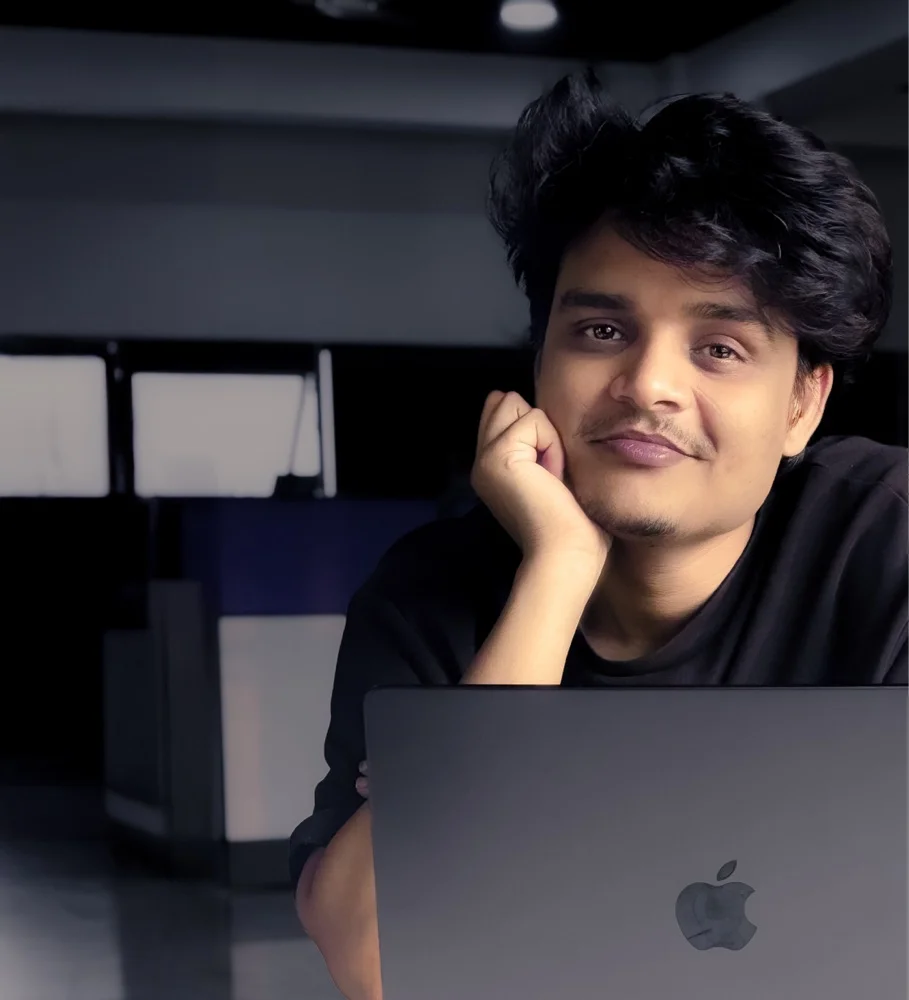
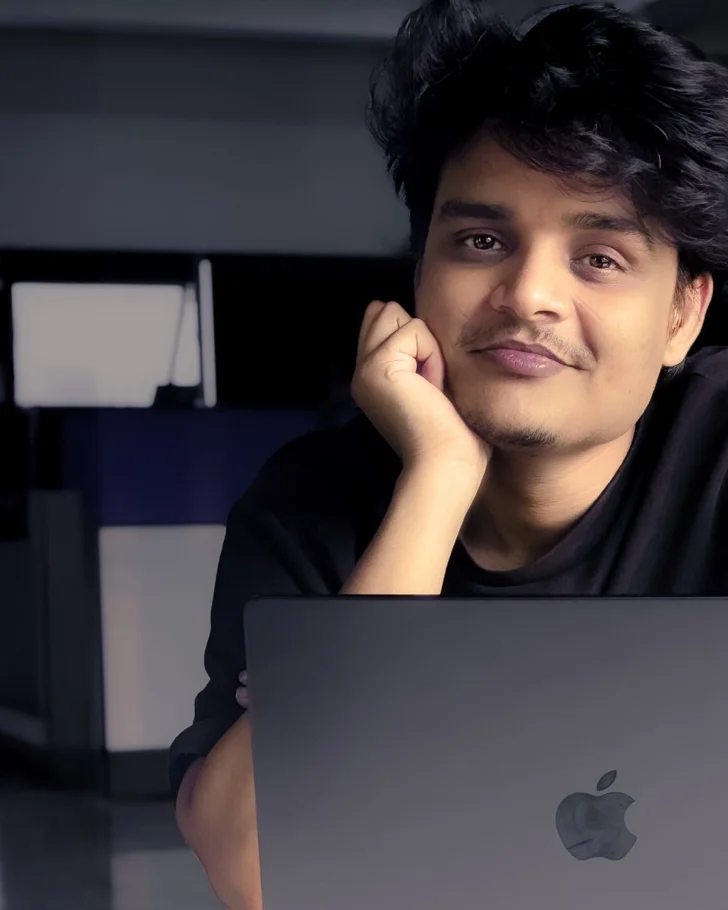
fix: hero headline collision + portrait crop
- hero-h1 line-height 1.06 -> 1.55 and re-tuned .rewrite offset/size so the
  handwritten 'system.' correction no longer overlaps the line above at
  wide viewports (verified via geometry at 375/1280/1920px); added a
  paper-colored halo behind it as a safety margin
- re-cropped rahim.webp: the original photo had significant dead ceiling
  space that CSS object-fit:cover couldn't remove (image was relatively
  wider than the 4:5 frame, so only side-cropping occurred); pre-cropped
  the source instead, and locked the portrait figure to aspect-ratio:4/5
  so it can no longer be stretched by the surrounding flex/grid

diff --git a/app/globals.css b/app/globals.css
@@ -99,15 +99,15 @@ button { font: inherit; cursor: pointer; }
 /* ============ hero ============ */
 .hero { min-height: 100svh; display: grid; grid-template-columns: minmax(0, 1.6fr) minmax(240px, 0.82fr); align-items: center; gap: clamp(28px, 5vw, 64px); position: relative; padding-top: 80px; }
 .hero-text { min-width: 0; }
-.hero-media { display: flex; justify-content: flex-end; }
-.hero-portrait { width: 100%; max-width: 340px; margin: 0; }
-.hero-portrait img { width: 100%; height: 100%; object-fit: cover; object-position: center 30%; display: block; }
+.hero-media { display: flex; justify-content: flex-end; align-items: center; align-self: center; }
+.hero-portrait { width: 100%; max-width: 340px; aspect-ratio: 4 / 5; margin: 0; flex: none; }
+.hero-portrait img { width: 100%; height: 100%; object-fit: cover; object-position: center center; display: block; }
 @media (max-width: 980px) {
   .hero { display: flex; flex-direction: column; justify-content: center; }
   .hero-media { display: none; }
 }
 .hero-eyebrow { display: flex; gap: 18px; color: var(--muted); margin-bottom: 28px; flex-wrap: wrap; }
-.hero-h1 { font-size: clamp(2.4rem, 6.4vw, 5.4rem); font-weight: 800; letter-spacing: -0.035em; line-height: 1.06; max-width: 16ch; }
+.hero-h1 { font-size: clamp(2.4rem, 6.4vw, 5.4rem); font-weight: 800; letter-spacing: -0.035em; line-height: 1.55; max-width: 16ch; }
 .hero-h1 .w { display: inline-block; opacity: 0; filter: blur(4px); }
 .hero-h1 .caret { display: inline-block; width: 0.5em; height: 0.95em; background: var(--ink); vertical-align: -0.1em; margin-left: 0.08em; animation: blink 1s steps(1) infinite; }
 @keyframes blink { 50% { opacity: 0; } }
@@ -115,10 +115,11 @@ button { font: inherit; cursor: pointer; }
 .fix svg.strike { position: absolute; left: -4%; top: 52%; width: 108%; height: 0.5em; overflow: visible; pointer-events: none; }
 .fix svg.strike path { stroke: var(--pen); stroke-width: 5; fill: none; stroke-linecap: round; }
 .fix .rewrite {
-  position: absolute; left: 8%; top: -0.72em;
+  position: absolute; left: 8%; top: -0.26em;
   font-family: var(--font-caveat), cursive; font-weight: 600; color: var(--pen);
-  font-size: 0.82em; letter-spacing: 0; line-height: 1; white-space: nowrap;
+  font-size: 0.72em; letter-spacing: 0; line-height: 1; white-space: nowrap;
   transform: rotate(-3.5deg); opacity: 0;
+  text-shadow: 0 0 6px var(--paper), 0 0 6px var(--paper), 0 0 10px var(--paper), 0 0 14px var(--paper);
 }
 .hero-sub { margin-top: 34px; max-width: 46ch; font-size: clamp(1rem, 1.4vw, 1.18rem); color: var(--muted); opacity: 0; }
 .hero-sub b { color: var(--ink); font-weight: 600; }